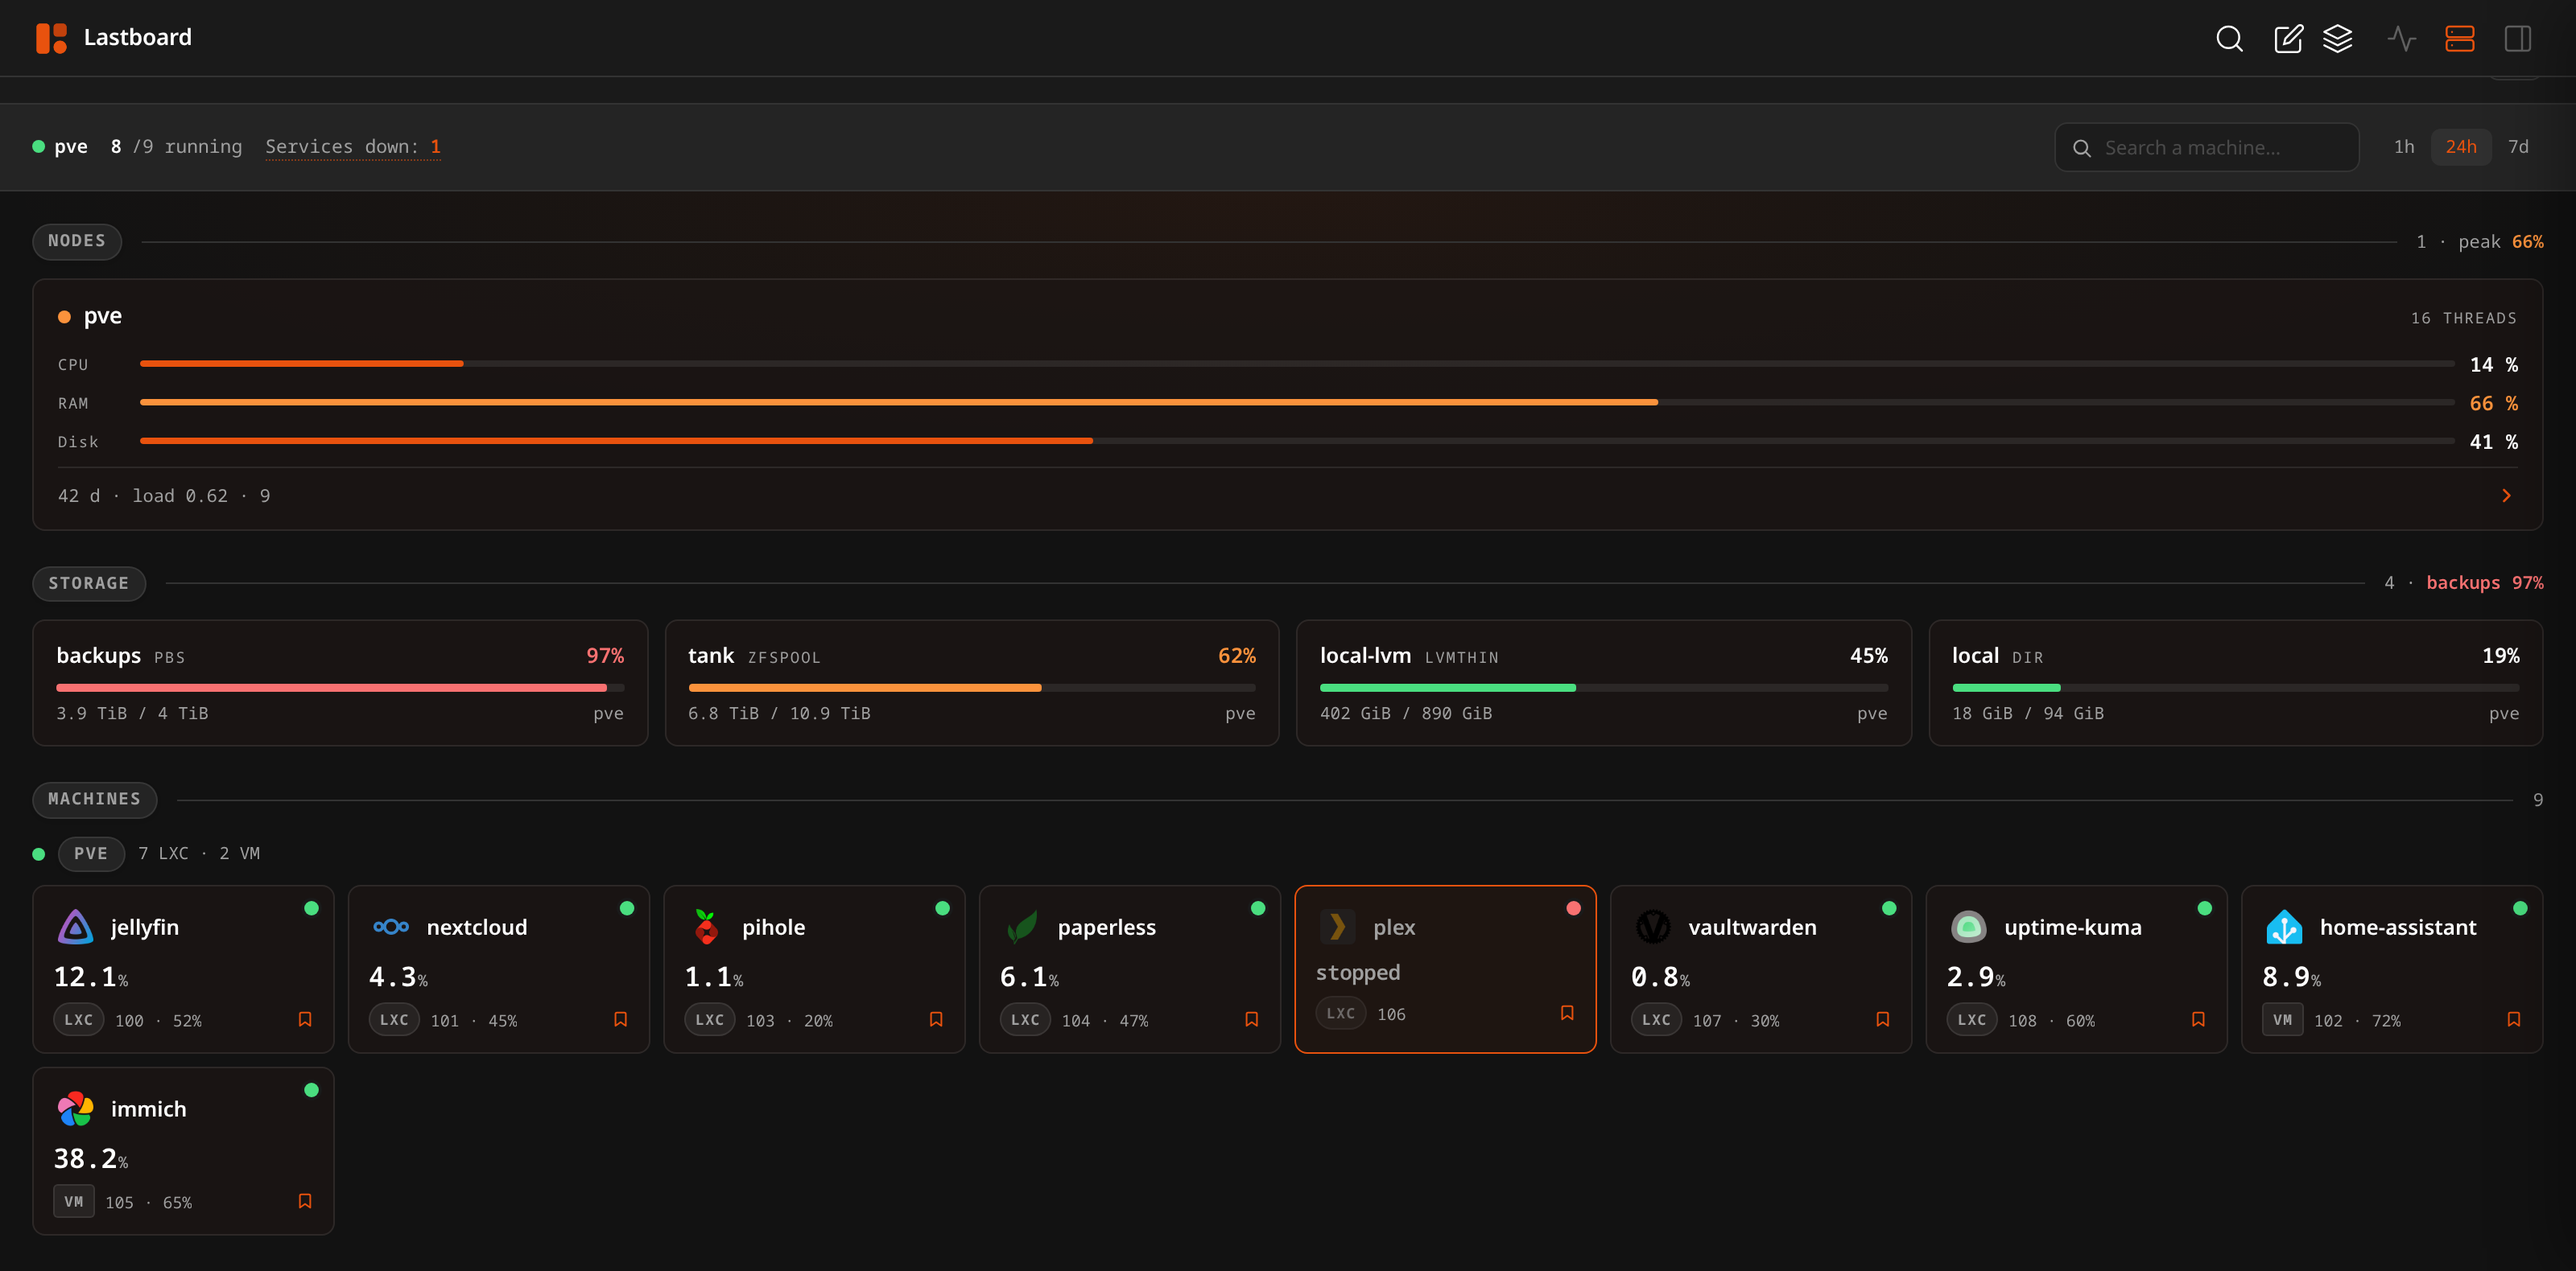
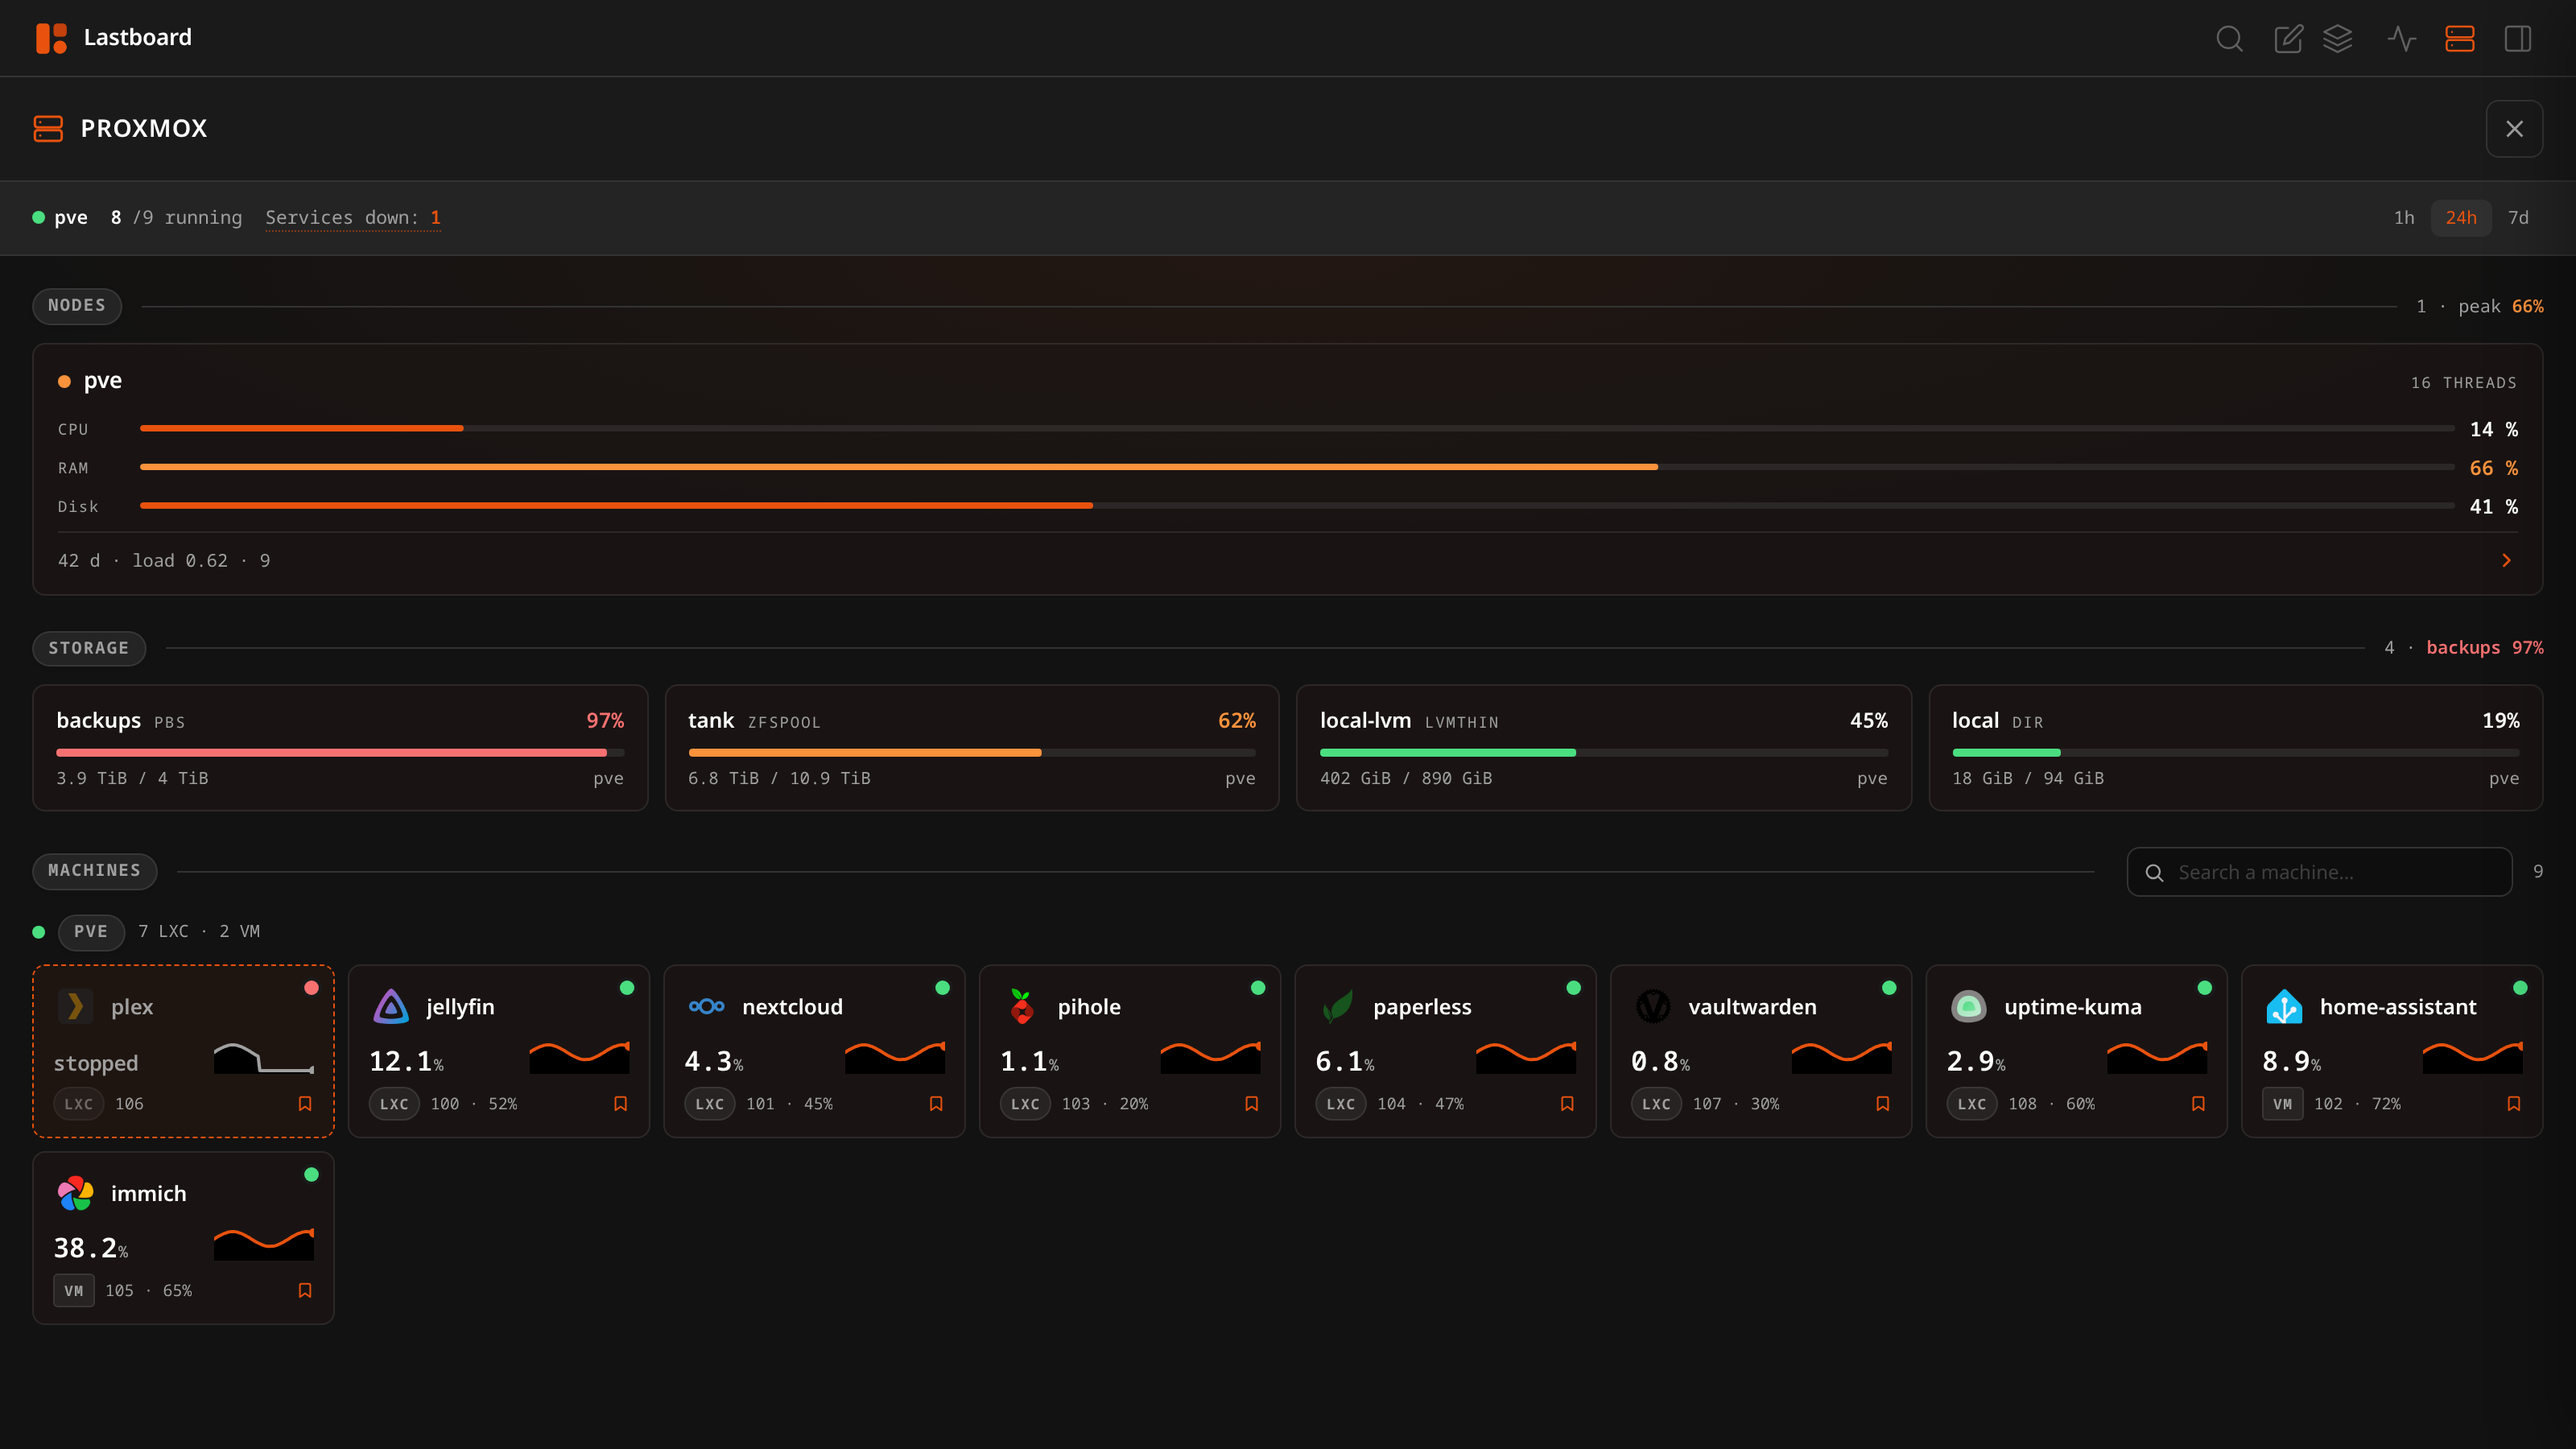
docs(proxmox): the page as it now behaves
The three dot colours, the trend line on each tile, where the search lives, the
close button, and the one request per machine that the lines cost. Screenshots
re-taken and the frame re-measured: a stopped machine at the front and a line
on every tile made the old one slice the last row in half.

diff --git a/scripts/docs-shots.ts b/scripts/docs-shots.ts
@@ -223,10 +223,11 @@ const SHOTS: Shot[] = [
         // Opens on the one machine that is stopped, because that is the thing
         // this page does that the Proxmox console does not: it names the
         // service that went down with its container.
-        // 790 tall, measured rather than guessed: the grid ends there at this
-        // width, and the 1000px window it was first shot at published a third
-        // of an empty board under it.
-        name: 'proxmox', w: 1600, h: 790, wait: 2200,
+        // 900 tall, measured rather than guessed: the grid ends there at this
+        // width now that a stopped machine sorts to the front and every tile
+        // carries a trend line. At 790 the last row was sliced in half; at
+        // 1000 a third of the window was empty board.
+        name: 'proxmox', w: 1600, h: 900, wait: 4000,
         act: `${TOPBAR}.querySelector('#proxmox-toggle').click(); await sleep(2000);`,
     },
     {

diff --git a/docs/proxmox/overview.md b/docs/proxmox/overview.md
@@ -79,19 +79,25 @@ Coming back later, the secret box is empty and says *Stored*. Leaving it that wa
 
 ## The page
 
-The Proxmox icon in the top bar opens it. Top to bottom:
+The Proxmox icon in the top bar opens it, and the **×** in its header closes it — while it is open the rest of the top bar is locked, the same way the status page behaves. Top to bottom:
 
-**The status line** — node name, how many machines are running out of how many, and **Services down**: how many of your bookmarked services are on a machine that is stopped. It also holds the search box and the time range used by the charts (1h, 24h, 7d).
+**The status line** — node name, how many machines are running out of how many, and **Services down**: how many of your bookmarked services are on a machine that is stopped. On the right, the range every chart on the page is drawn over: **1h, 24h, 7d**.
 
 **Nodes** — one card per node with CPU, memory and disk, plus uptime, load average and how many machines it carries. On a cluster the header says so; a single node is never called a cluster.
 
 **Storage** — one card per store: how full it is, used and total, the kind (`ZFSPOOL`, `LVMTHIN`, `PBS`, `DIR`) and which node it belongs to. Bars turn amber past 60% and red past 90%.
 
-**Machines** — one tile per virtual machine or container, grouped by node. A tile carries the icon of the bookmark it serves (matched by name, or told to it — see below), its CPU and memory, its type (LXC or VM) and its VMID. Templates are left out: they cannot run, so they have no state to show.
+**Machines** — one tile per virtual machine or container, grouped by node. A tile carries the icon of the bookmark it serves (matched by name, or told to it — see below), its CPU with a **trend line over the chosen range**, its memory, its type (LXC or VM) and its VMID. Templates are left out: they cannot run, so they have no state to show.
 
-A machine that is **stopped and serves a bookmark** wears an accent border and a red dot, and sorts to the front. A stopped machine nobody linked is just a stopped machine — it is not flagged, because turning things off is a normal thing to do.
+The dot in the corner says which of three things a machine is:
 
-Use the search box to filter by name or VMID. When something is down, the **Services down** count becomes a button: click it to show only the stopped machines, and click it again to bring the rest back.
+| | |
+| :--- | :--- |
+| **Green** | running |
+| **Amber**, dashed border | stopped, with no bookmark pointing at it — turning things off is a normal thing to do |
+| **Red**, accent border | stopped **and** serving a bookmark: that is an outage, and the machine sorts to the front of its node |
+
+The search box in the **Machines** header filters by name or VMID. When something is down, the **Services down** count becomes a button: click it to show only the stopped machines, and click it again to bring the rest back.
 
 ## A machine in detail
 
@@ -151,7 +157,8 @@ To keep this on the dashboard itself, add the [Proxmox widget](../widgets/proxmo
 | :--- | :--- |
 | Page open or widget tick | `GET /cluster/resources` — one call for nodes, machines and storage |
 | Page open | `GET /nodes/{node}/status` — one per node, for load and cores |
-| Opening a machine | `GET .../rrddata` — the history Proxmox already keeps |
+| Page open, and on a range change | `GET .../rrddata` — one per machine, for the trend line on its tile. Proxmox has no endpoint that returns history for more than one machine, so these are spread out, three at a time, and cached until the range changes |
+| Opening a machine | the history it already has, or a request for it |
 | Pressing a button | `POST .../status/start` or `.../status/shutdown` |
 
 The page refreshes every 15 seconds while it is open and the widget on its own interval; neither polls when it is closed. Nothing is written to your database: no machine names, no figures, no history. The only thing Lastboard stores is the connection itself.
